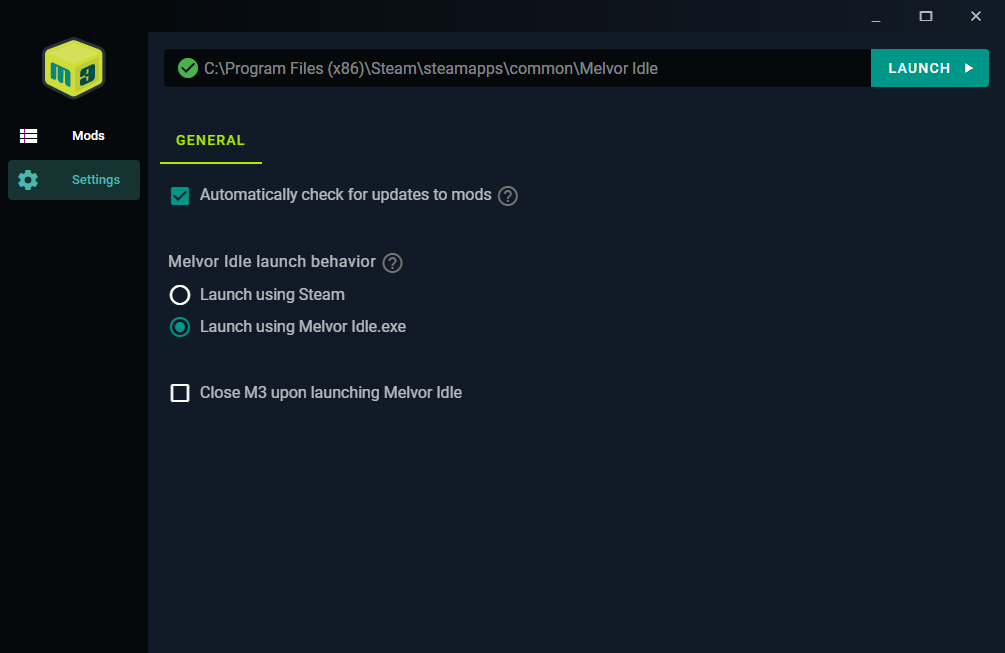
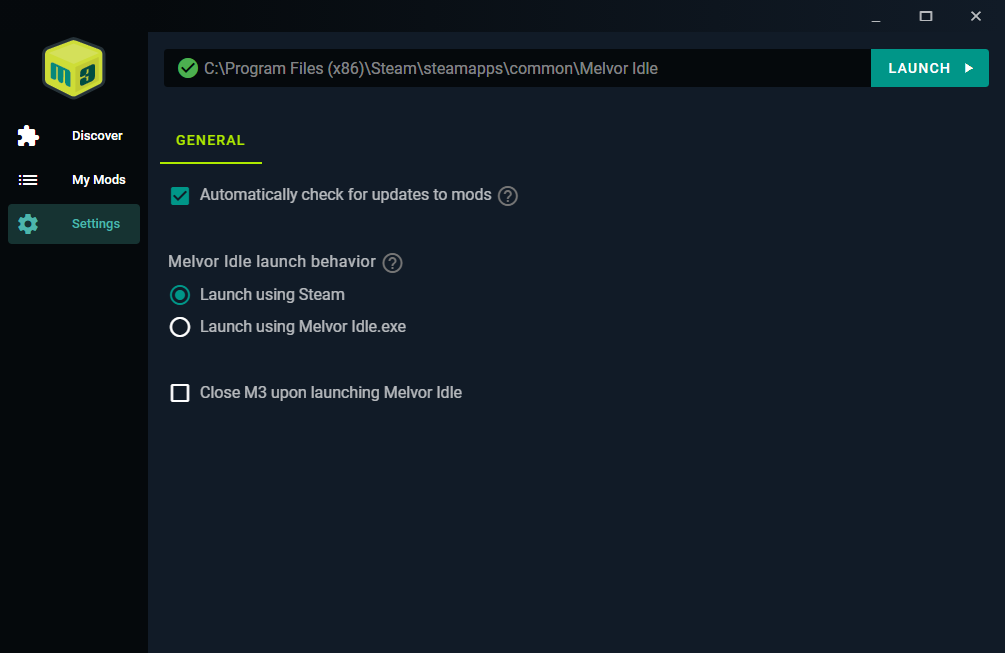
Update README with Discover tab

diff --git a/README.md b/README.md
@@ -12,8 +12,12 @@ Download and run the setup .exe from the [Latest Release](https://github.com/Cha
 
 Once installed and launched:
 1. Click the 'Browse' button and find your Melvor Idle installation directory. It is most likely something like: `C:\Program Files (x86)\Steam\steamapps\common\Melvor Idle`
-2. Click the 'Add +' button and add a mod from either a file or a web URL.
-3. Launch the game using the button in the upper-right and your mods should be loaded upon selecting your character.
+2. Add popular mods from the curated **Discover** tab. Simply find the mod you want and click **Install**!
+3. Alternatively, you can click the **Add +** button and manually add a mod from either a file or a web URL.
+4. Launch the game using the button in the upper-right and your mods should be loaded upon selecting your character.
+
+### Add from Discover Tab
+Mods can be added from the Discover tab. This is a curated list of popular mods that have generally been tested by the community. Still, I cannot guarantee them to be working or not including malicious code - I'll do my best to inspect the code and test them, I urge you to use the **Info** button to guage the mod for yourself.
 
 ### Add From File
 Files can be either a JavaScript (.js) file formatted with UserScript metadata or a WebExtension manifest (manifest.json). This means that for extensions, you should manually download them (for example, from the Combat Simulator Reloaded's [release page](https://github.com/visua0/Melvor-Idle-Combat-Simulator-Reloaded/releases)), extract the .zip file, and then navigate the M3 file prompt to the manifest.json file found within.
@@ -22,13 +26,15 @@ Files can be either a JavaScript (.js) file formatted with UserScript metadata o
 Currently only GreasyFork userscript URLs are supported. Example: `https://greasyfork.org/en/scripts/428146-quickshards-for-melvor-idle`
 
 ### Updating Mods
-M3 currently only supports updating of mods through the UI that have been added via GreasyFork. For all other mods, you should first remove it and then re-add using the newer version. 
+M3 currently only supports updating of mods through the UI that have been added via the Discover tab or GreasyFork. For all other mods, you should first remove it and then re-add using the newer version. 
 
 ### Mod Load Order
 You can adjust the load order of the mods using the arrows on the right-hand side of the mod list. This may help in resolving dependencies in the correct order.
 
-## Screenshot
+## Screenshots
+![Screenshot of Discover Tab](repo/app-screenshot--discover.png)
 ![Screenshot of M3](repo/app-screenshot.png)
+![Screenshot of Settings Tab](repo/app-screenshot--settings.png)
 
 ## Scripts for Compiling/Running M3 Yourself
 Ensure you have [Node.js installed](https://nodejs.org/en/).
